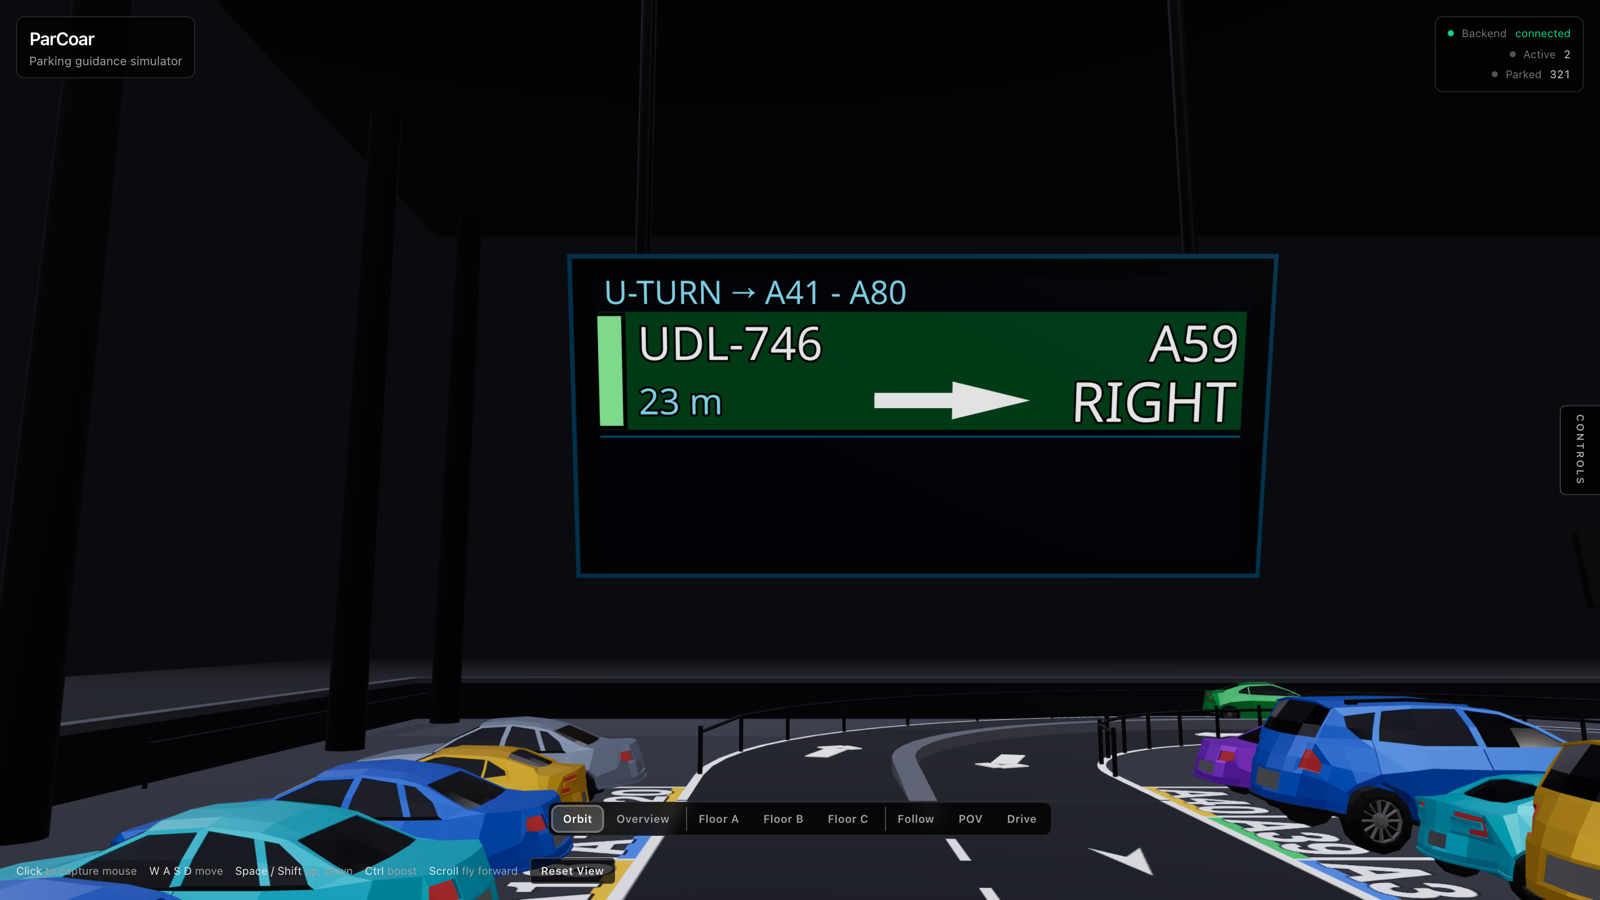
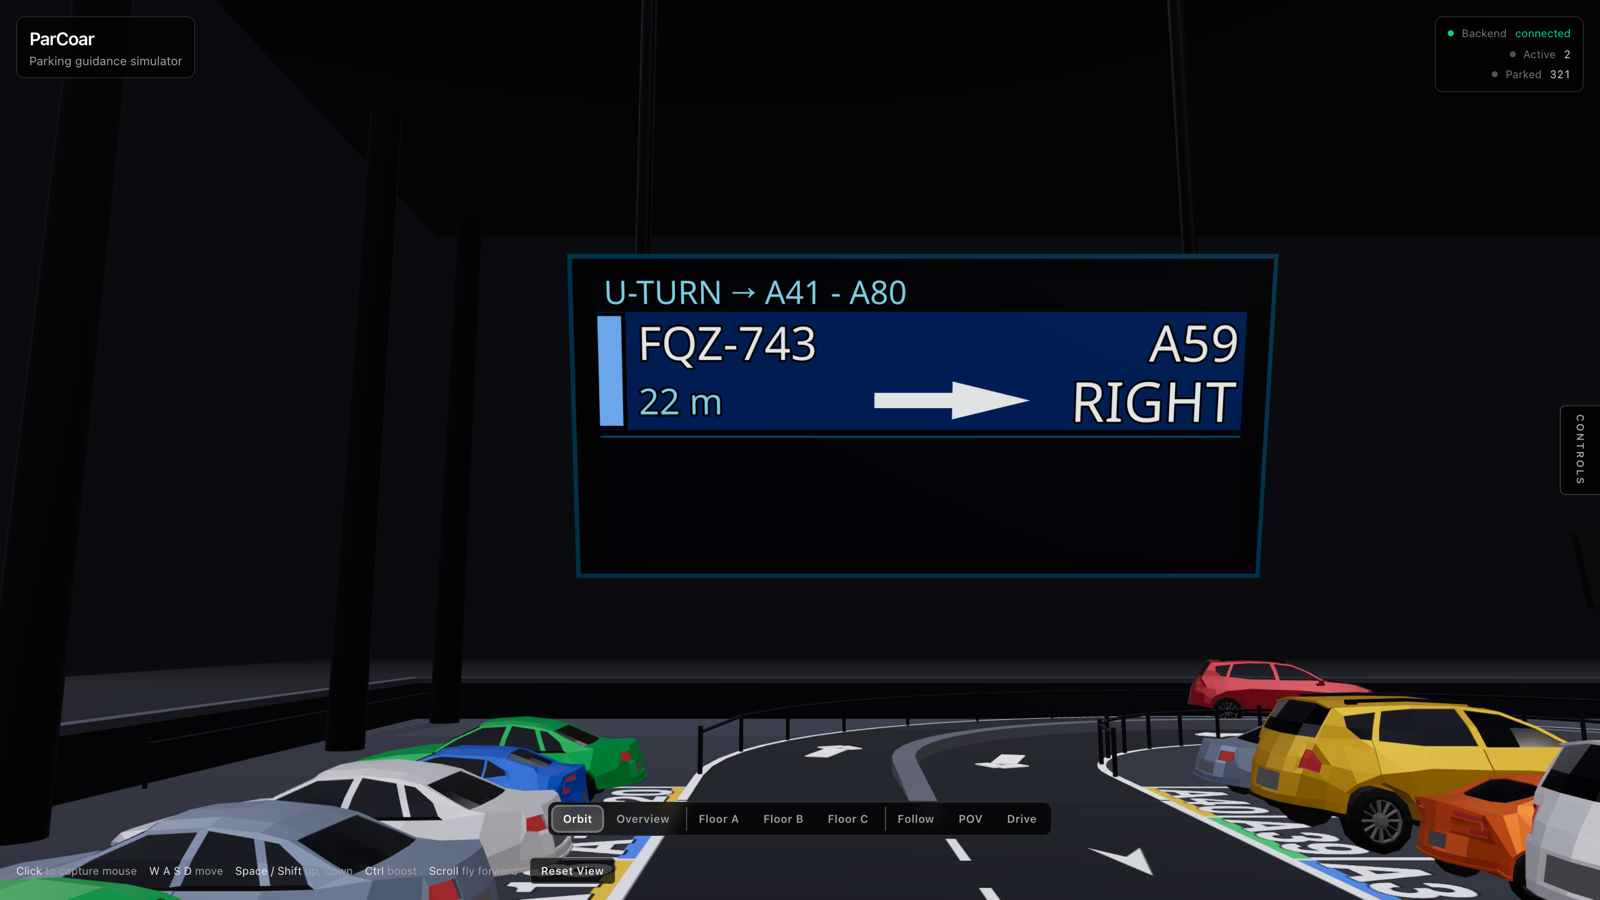
fix: frame the whole building on load, and three small review findings
The opening shot cropped the ground floor off the bottom of the viewport, so
the first thing anyone saw was a three-storey building with two storeys
visible. The camera now sits far enough back that all three decks and the
ramp fit: checked by projecting the eight corners of the building into
clip space, worst axis 0.92 of the frame edge, all inside. Reset View was
also returning to a different vantage than the app starts on. Both now share
one position.

The route map drew each car's route in that car's own colour at 1.8 wide,
over a graph drawn in greys up to #d4d4d8. Two of the nine car colours are
silver #94a3b8 and white #f8fafc, so a silver car's route was the same value
as the junctions it ran along. The route now has a dark casing under it and a
heavier stroke, so it separates whatever colour the car is. Since the README
sells this panel as the thing that shows you the search, it should be
readable for all nine.

The keyboard shortcut effect in App.tsx depended on the whole object
useSimulation returns, which is a fresh literal every render, so the window
listener was torn down and re-added several times a second. It depends on the
two values it actually uses now.

Screenshots regenerated against the new framing.

Changed region(s): [[0.375, 0.3422, 0.7812, 0.4978], [0.0, 0.7778, 0.4062, 1.0], [0.7188, 0.7156, 1.0, 1.0]]

diff --git a/frontend/src/ui/RoutePanel.tsx b/frontend/src/ui/RoutePanel.tsx
@@ -221,15 +221,31 @@ function Schematic({
     }
     if (pts.length >= 2) {
       routeEls.push(
-        <polyline
-          key="route"
-          points={pts.map(([x, y]) => `${x.toFixed(1)},${y.toFixed(1)}`).join(" ")}
-          fill="none"
-          stroke={car.color}
-          strokeWidth={1.8}
-          strokeLinejoin="round"
-          strokeLinecap="round"
-        />
+        <>
+          {/* Dark casing under the route, so it separates from the graph even
+              where the two are the same value. The graph is drawn in greys up
+              to #d4d4d8, and two of the nine car colours are silver #94a3b8
+              and white #f8fafc: a silver car's route drawn in its own colour
+              is invisible against the junctions it runs along. */}
+          <polyline
+            key="route-casing"
+            points={pts.map(([x, y]) => `${x.toFixed(1)},${y.toFixed(1)}`).join(" ")}
+            fill="none"
+            stroke="#09090b"
+            strokeWidth={5.2}
+            strokeLinejoin="round"
+            strokeLinecap="round"
+          />
+          <polyline
+            key="route"
+            points={pts.map(([x, y]) => `${x.toFixed(1)},${y.toFixed(1)}`).join(" ")}
+            fill="none"
+            stroke={car.color}
+            strokeWidth={2.6}
+            strokeLinejoin="round"
+            strokeLinecap="round"
+          />
+        </>
       );
     }
     // Current position marker (path[0]) if it is on this floor.

diff --git a/frontend/src/sim/Scene.tsx b/frontend/src/sim/Scene.tsx
@@ -243,10 +243,19 @@ export const Scene = memo(function Scene({
   carGroupsRef?: React.MutableRefObject<Map<string, THREE.Group>>;
   nodeSigns?: NodeSign[];
 }) {
-  // Camera framing: the lot spans roughly x[0,45], z[-16,88], y[0,45].
-  // We start high and to the front-left for a 3/4 aerial view; the free-fly
-  // rig reorients to face the lot centre on mount.
-  const cameraPos: [number, number, number] = [42, 78, -58];
+  // Opening shot: high and to the south-west for a three-quarter aerial view.
+  // The free-fly rig reorients to face the lot centre on mount.
+  //
+  // Far enough back that all three decks and the ramp fit the frame. The
+  // slabs span x -13.5 to 68.1 and z -13 to 64, and the building is 32 tall,
+  // so a closer vantage put the ground floor off the bottom of the viewport
+  // and the first thing anyone saw was a three-storey building with two
+  // storeys visible.
+  const cameraPos: [number, number, number] = [
+    LOT_CENTER_X - 96,
+    72,
+    LOT_CENTER_Z - 104,
+  ];
   const target: [number, number, number] = [LOT_CENTER_X, (3 * FLOOR_HEIGHT) / 2, LOT_CENTER_Z];
 
   // Target object for the skylight so its shadow frustum is centred on the

diff --git a/frontend/src/sim/CameraRig.tsx b/frontend/src/sim/CameraRig.tsx
@@ -76,9 +76,12 @@ const MOUSE_LOOK_SENSITIVITY = 0.0011;
 const PITCH_LIMIT = Math.PI / 2 - 0.05;
 
 /** Default vantage for Reset View: a high 3/4 aerial over the lot. */
+/** Where "Reset View" puts you: the same opening shot the app starts on. Keep
+ *  this in step with `cameraPos` in Scene.tsx, or resetting moves you
+ *  somewhere you have never been. */
 const DEFAULT_VANTAGE = {
-  pos: new THREE.Vector3(LOT_CENTER_X + 35, 65, LOT_CENTER_Z + 65),
-  look: new THREE.Vector3(LOT_CENTER_X, FLOOR_HEIGHT, LOT_CENTER_Z),
+  pos: new THREE.Vector3(LOT_CENTER_X - 96, 72, LOT_CENTER_Z - 104),
+  look: new THREE.Vector3(LOT_CENTER_X, (3 * FLOOR_HEIGHT) / 2, LOT_CENTER_Z),
 };
 
 /** Predefined camera framings for the preset (teleport) modes.

diff --git a/frontend/src/App.tsx b/frontend/src/App.tsx
@@ -85,7 +85,10 @@ export function App() {
     };
     window.addEventListener("keydown", onKey);
     return () => window.removeEventListener("keydown", onKey);
-  }, [overlays.routeMap, sim]);
+    // Depend on the specific values used, not on `sim`. useSimulation returns
+    // a fresh object literal every render, so depending on it tore the
+    // listener down and re-added it several times a second.
+  }, [overlays.routeMap, sim.updateSettings, sim.settings.speed]);
 
   const lot = sim.lot;
 
